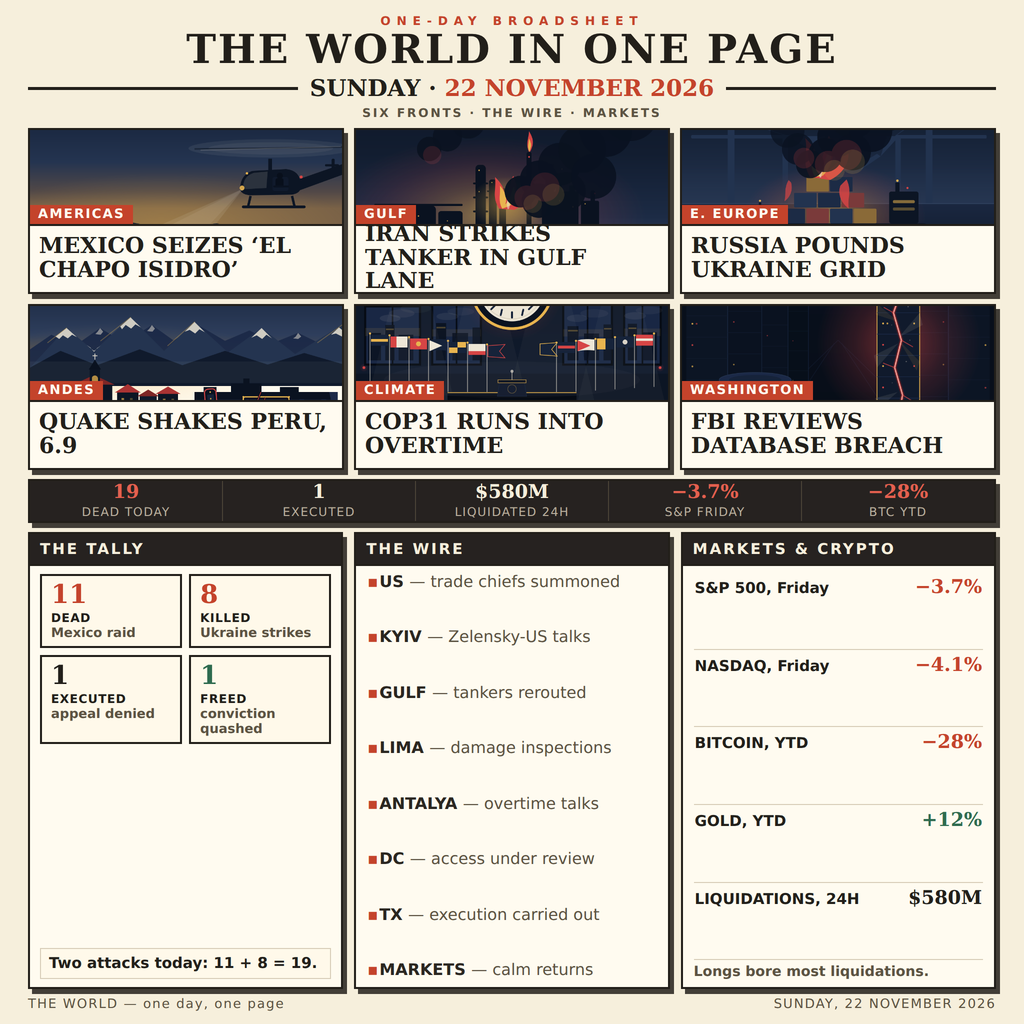
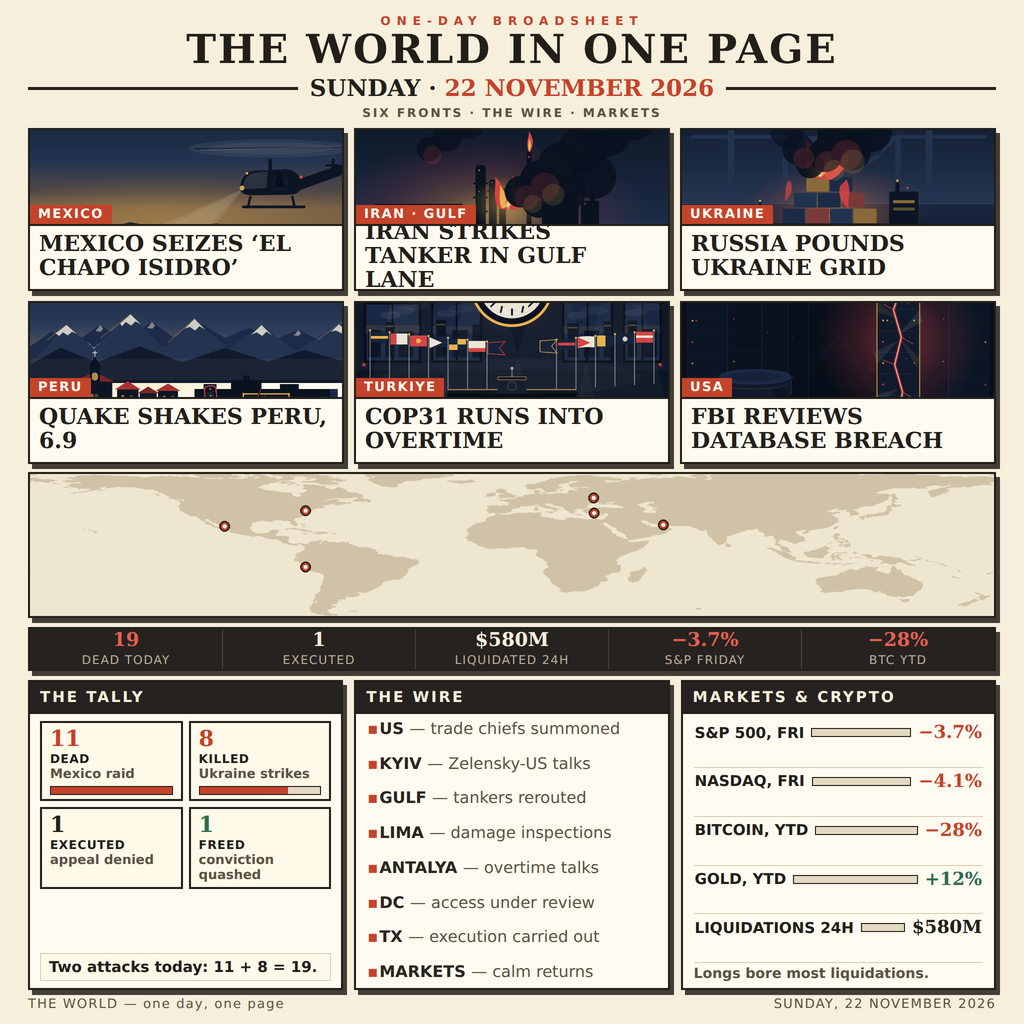
v9: world-map band with markers, country chips, tally and market bars - no new small text, all numbers unchanged

diff --git a/README.md b/README.md
@@ -8,8 +8,10 @@ A one-day broadsheet that sums up 22 November 2026's world news in one
 1024×1024 image: six fronts (Mexico's capture of the cartel boss 'El Chapo
 Isidro', Iran's claimed tanker strike in the Gulf, Russia's barrage on
 Ukraine's grid, Peru's 6.9 quake, COP31 overtime, the FBI database-breach
-review), a numbers strip, THE TALLY (11 + 8 = 19, reconciled everywhere),
-THE WIRE (eight one-line briefs) and MARKETS & CRYPTO. Rebuilt from judge
+review), a world-map band marking where the day happened, a numbers strip,
+THE TALLY (11 + 8 = 19, reconciled everywhere, with proportional bars),
+THE WIRE (eight one-line briefs) and MARKETS & CRYPTO with inline bar
+charts. Rebuilt from judge
 feedback on the earlier dense version: no hype badges or gauges, no
 micro-text — every string is at least 16 px bold and was verified legible
 at 300 px, with each number stated consistently. Six AI-generated editorial
